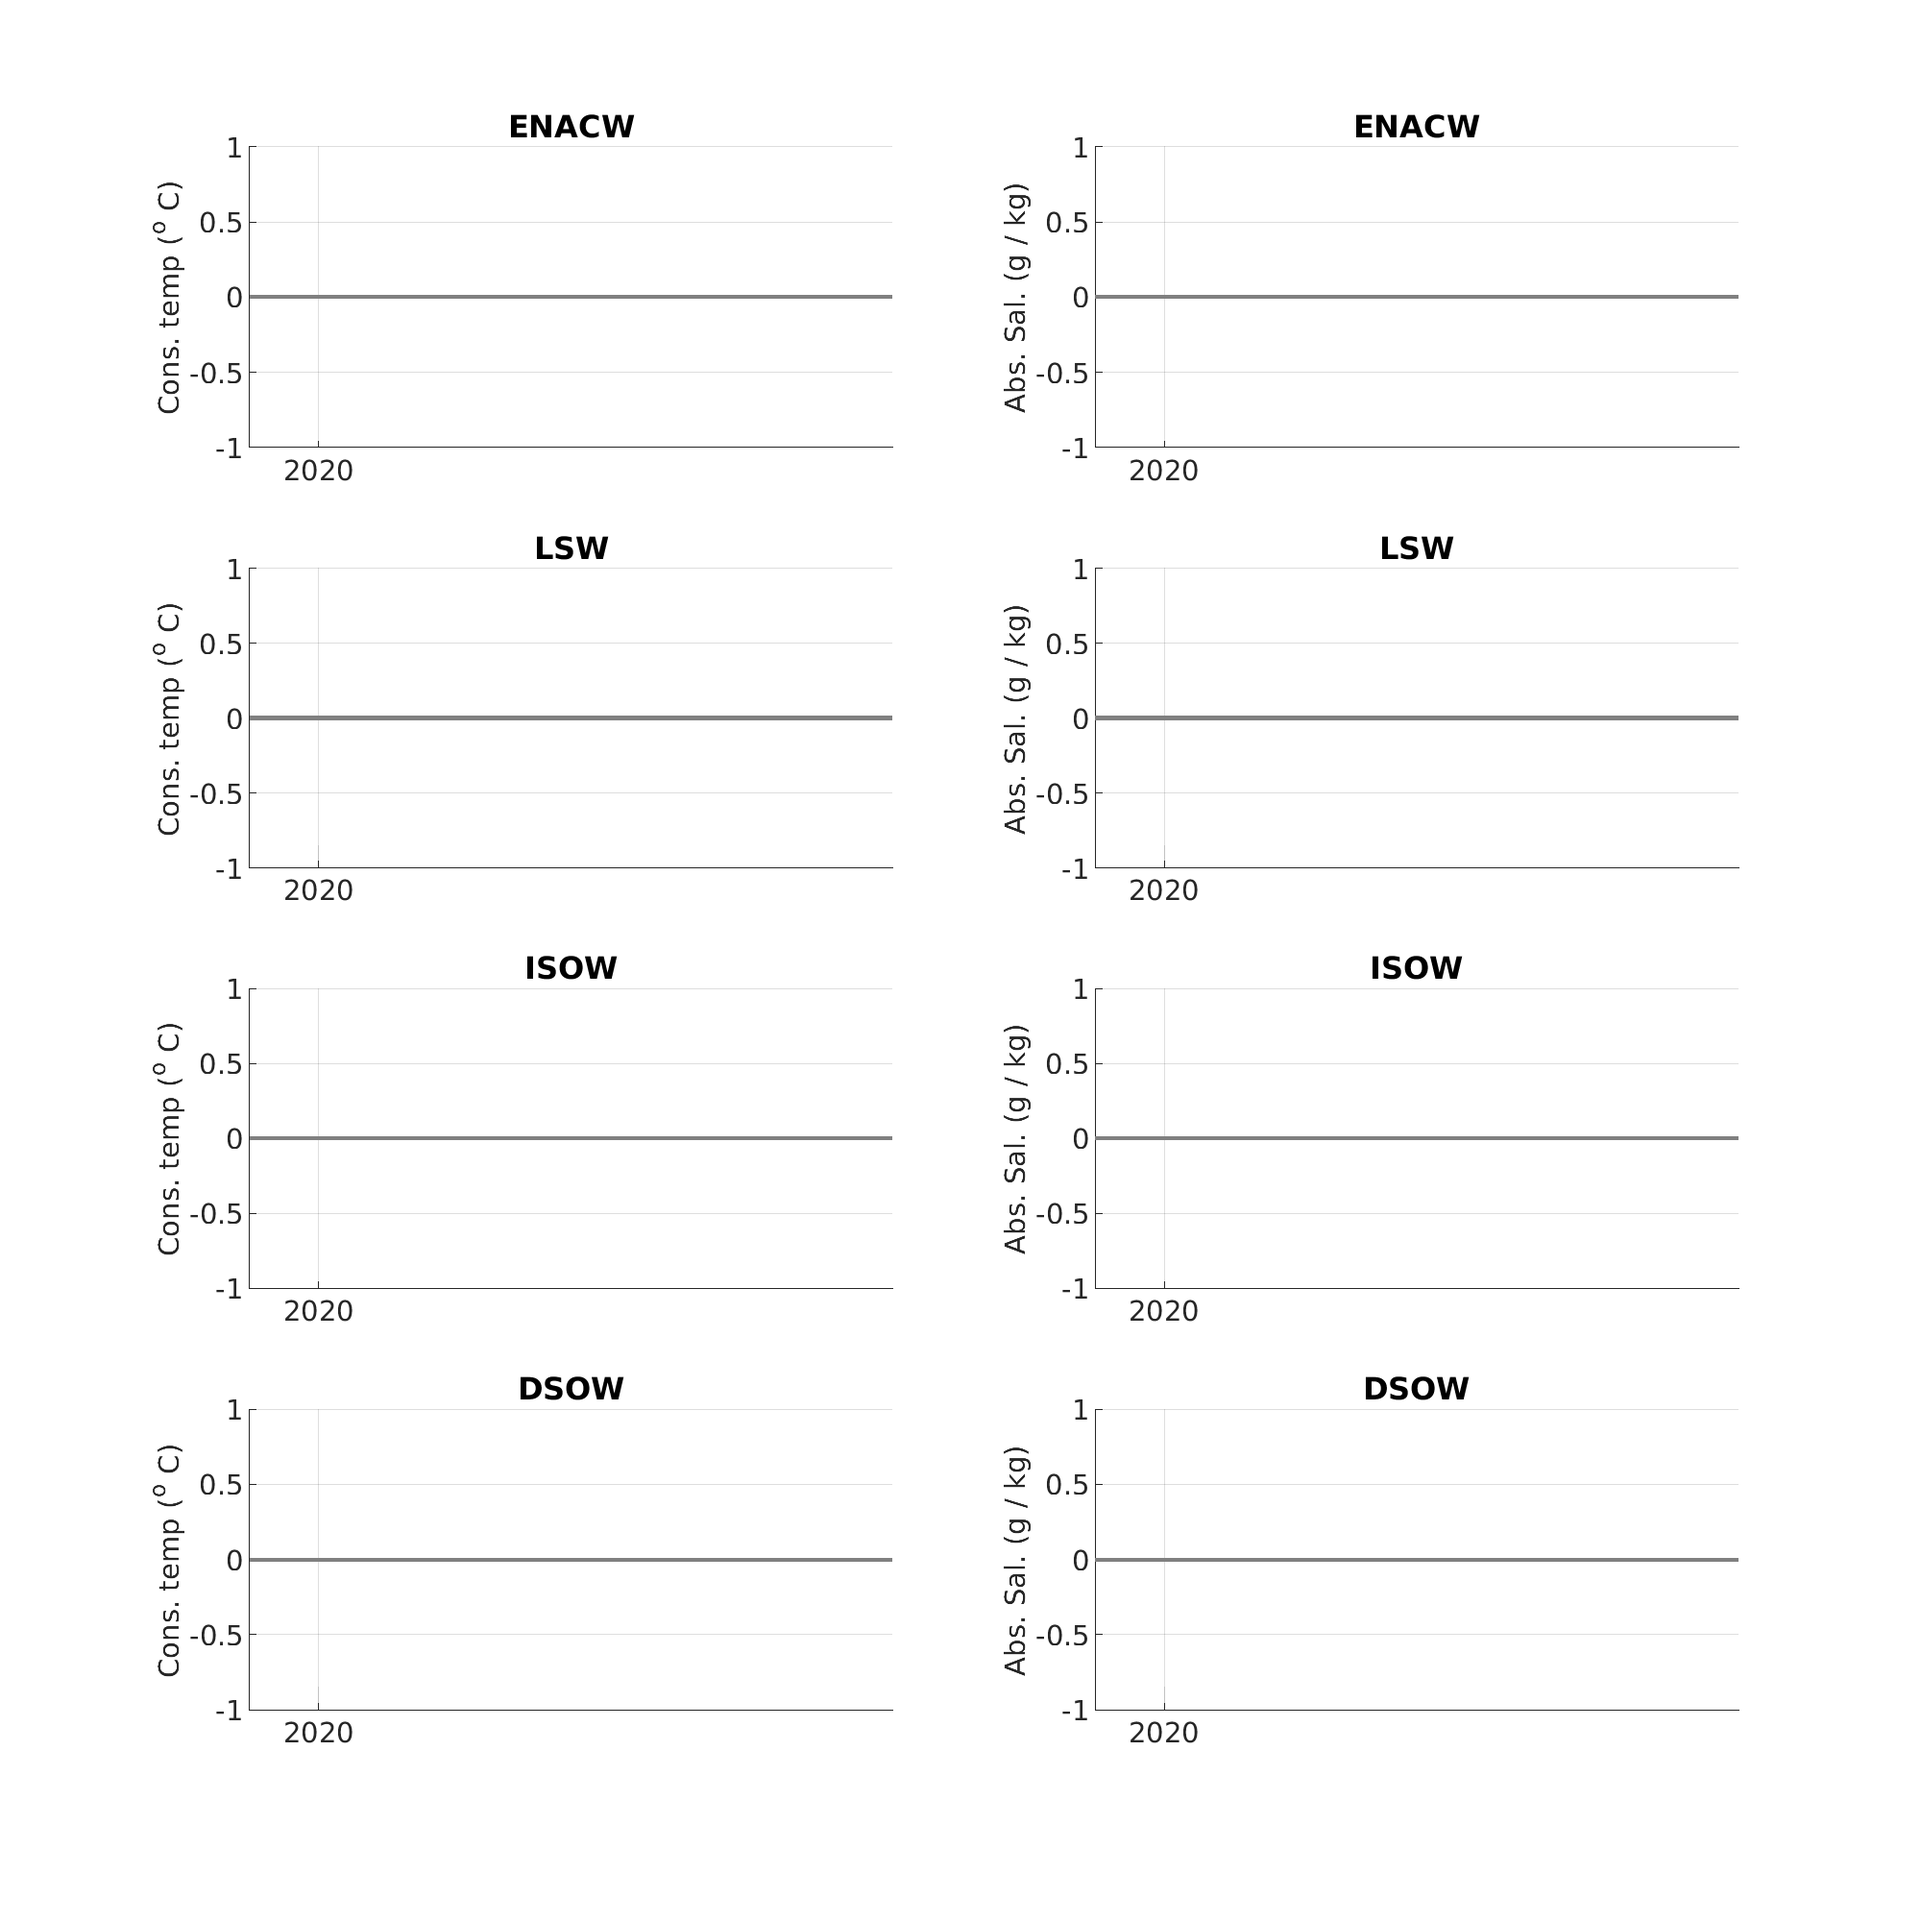
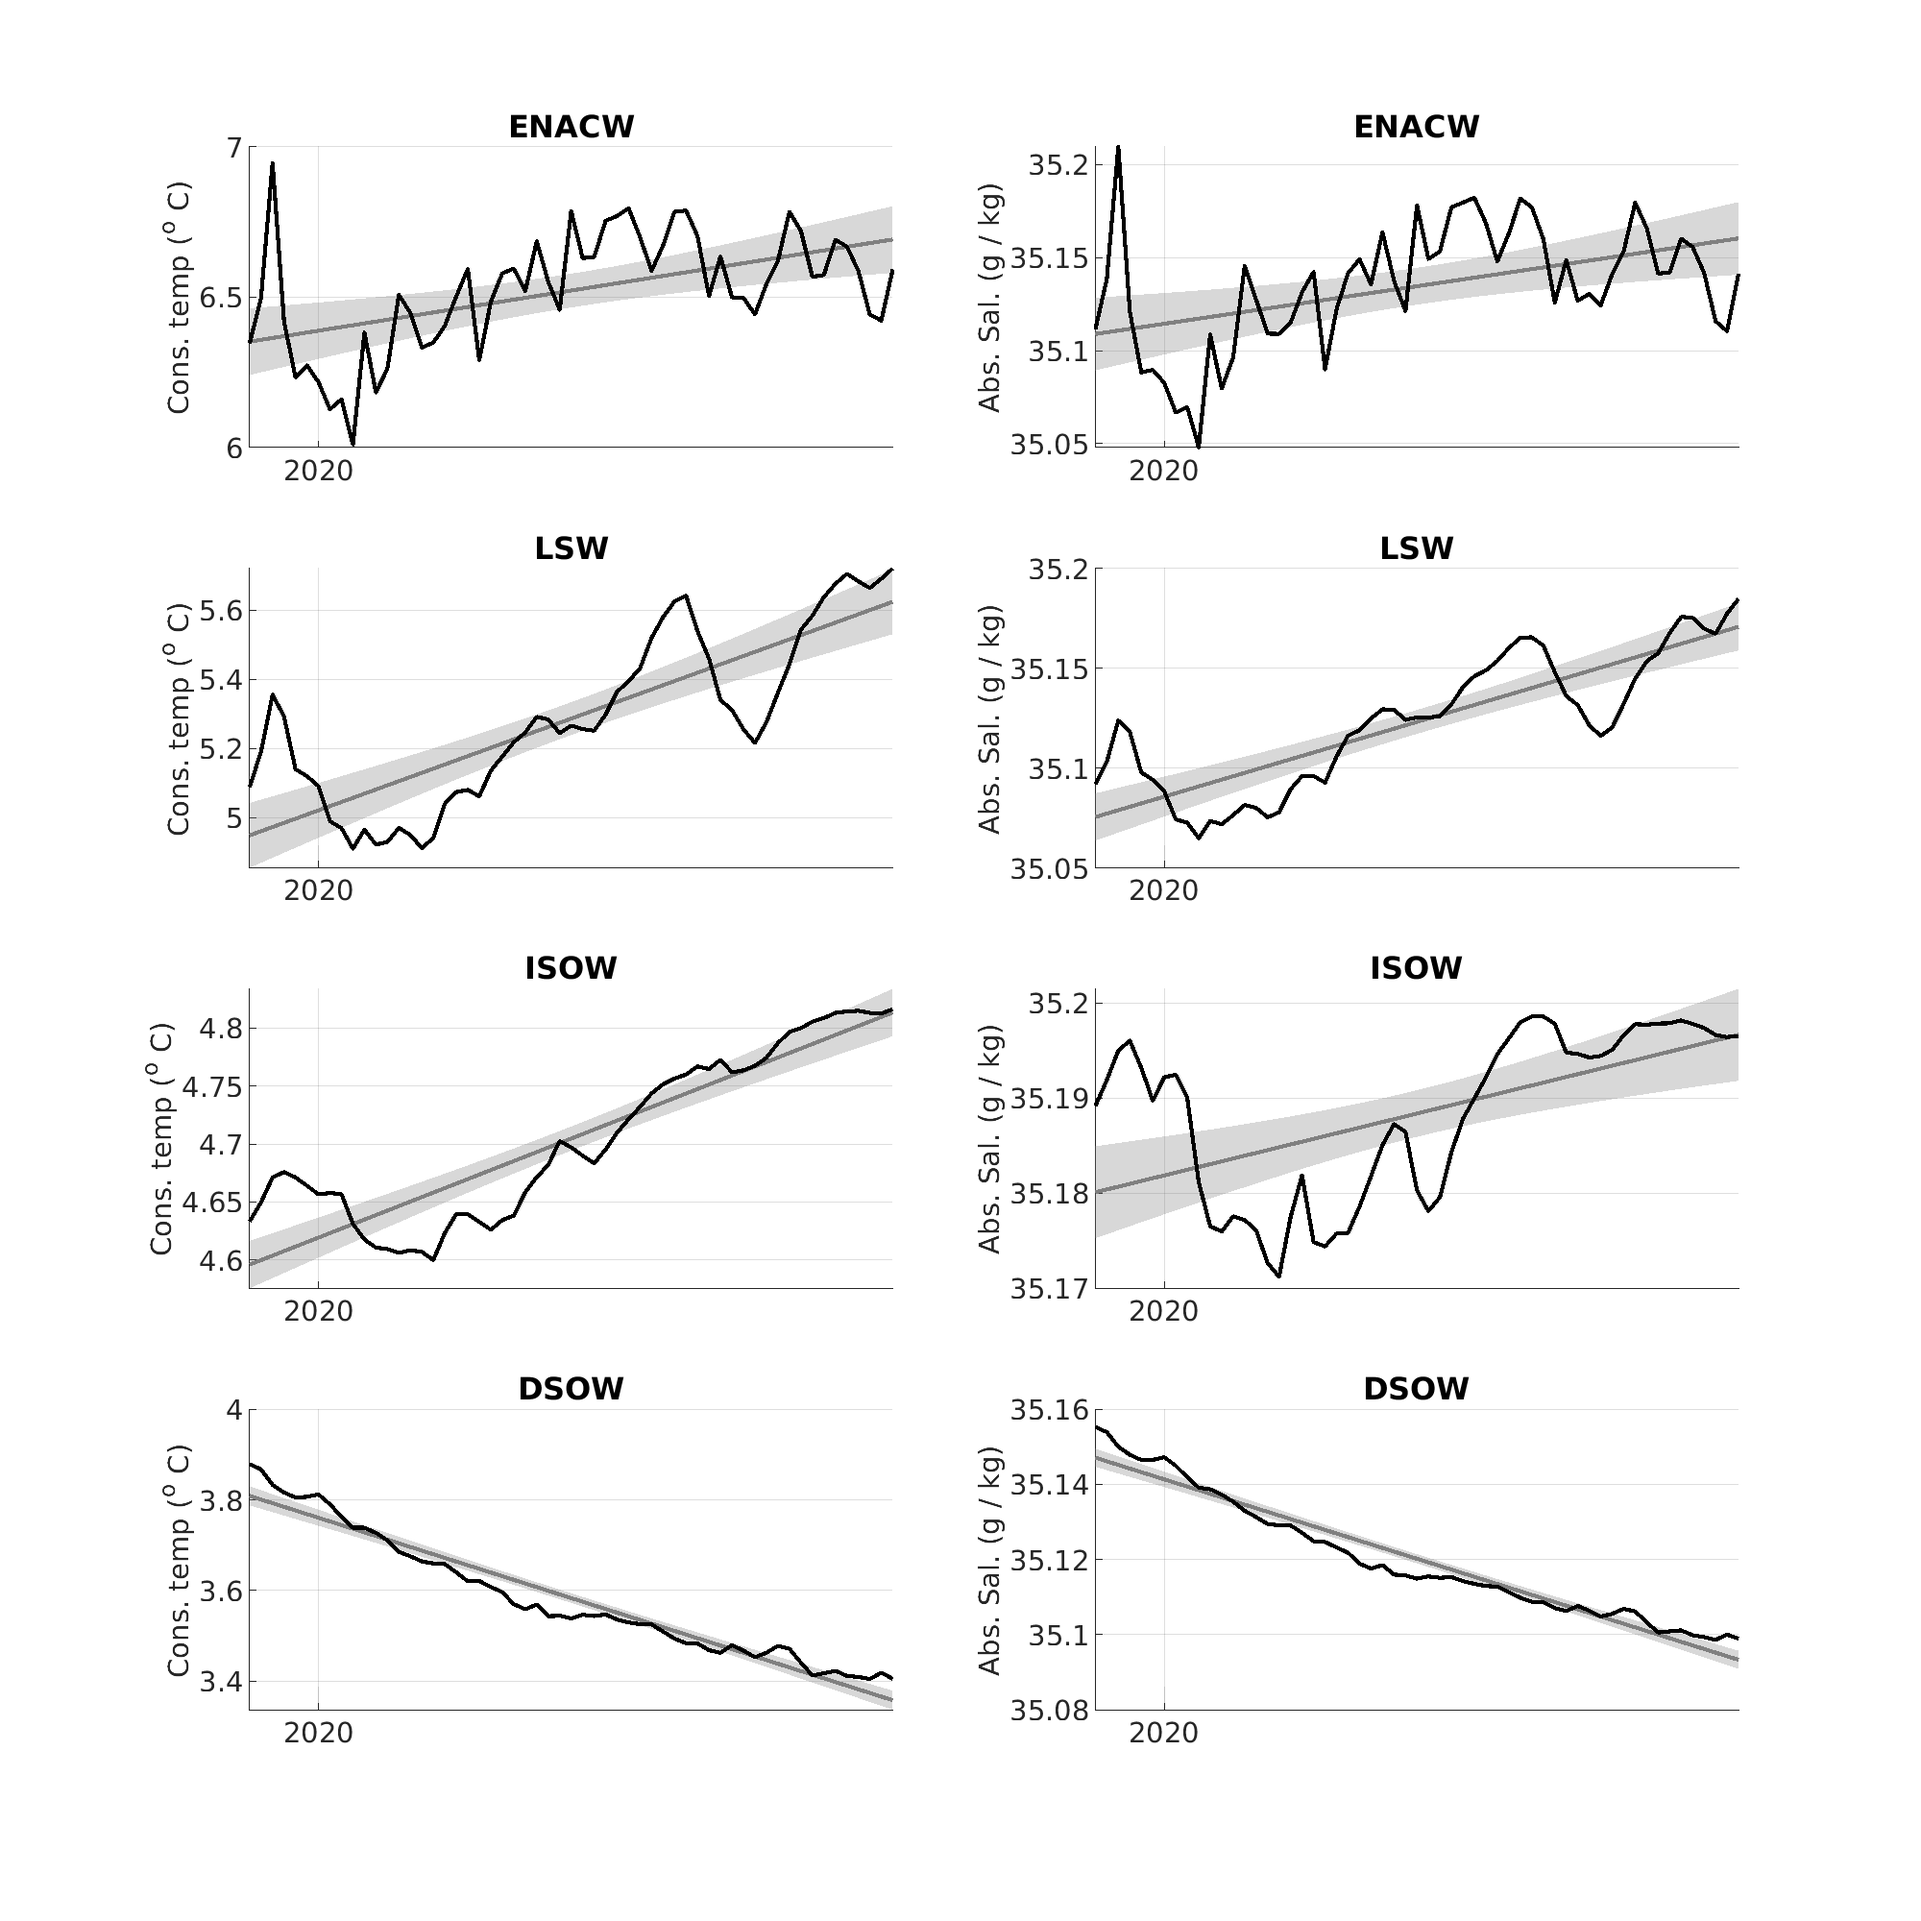
Edit script to test on FOCI

diff --git a/plot4_timeseries_FOCI/p4_plot_timeseries_worker.m b/plot4_timeseries_FOCI/p4_plot_timeseries_worker.m
@@ -19,6 +19,8 @@ x = ncread(filename,'x');
 y = ncread(filename,'y');
 lon2d = ncread(filename,'glamt');
 lat2d = ncread(filename,'gphit');
+tmask = ncread(filename,'tmask');
+tmask = repmat(tmask,1,1,1,12);
 dx2d = ncread(filename,'e1t');
 dy2d = ncread(filename,'e2t');
 bathyind = ncread(filename,'mbathy');
@@ -88,8 +90,8 @@ for yy = 1:length(filelist) % for each year netcdf
     time = time + basetime;
     
     % Set values inside bathy from 0 to nan.
-    T(T==0) = nan;
-    S(S==0) = nan;
+    T(tmask==0) = nan;
+    S(tmask==0) = nan;
     
     Yn_filename = [path,expe,'/gamma_n/',files_gn(yy).name];
     gamma_n = ncread(Yn_filename,'gamma_n');
@@ -250,34 +252,34 @@ for ww = 1:num_timeseries % for each water mass timeseries
     clear b bint r rint stats X y
     
     %% Regression analysis assuming 1D variable (dim = 1xN, Kristin code 161221)
-%     yfit1 = CT_lin_fit(ww,:); %this is the trend time series
-%     y = CT_annual(ww,:); %this is the data time series
-%     %t-value � find doef
-%     y_xc = xcorr(y-nanmean(y(:)),'coeff'); %autocorrelation
-%     y_xc = y_xc(ceil(length(y_xc)/2)+1:end); %only positive values
-%     deof_y = round(length(y)/find(y_xc<=1/exp(1),1,'first')); %deof are (number of obs)/(decorrelation or e-folding timescale)
-%     alphaup =  1-0.05/2; %1-0.05/2;
-%     t_crit_y = tinv(alphaup,deof_y); %find t_crit through matlab function
-%     
-%     yresid1 = y - yfit1;
-%     S2_e = (1/(deof_y-2)) * sum(yresid1.^2); % (eq. 1.33 on page 48 of internet doc)
-%     S_a = sqrt(S2_e / (sum((y-nanmean(y)).^2))); % (eq. 1.34 on page 48)
-%     % SJ NOTE: THE ABOVE COUPLE OF LINES SEEMS TO RESULT IN VALUES TOO
-%     % LARGE TO RESULT IN TEST PASSES. INVESTIGATE! (see https://o2.eas.gatech.edu/courses/EAS2655/week5.pdf)
-%     
-%     % significance test, t-test, 95% interval, H_0: R=0.0
-%     t1 = beta(2)/S_a; % (eq. 135 on page 48)
-%     
-%     % if 1: test is significant; 0: test is not significant
-%     if t_crit_y<abs(t1)
-%         CT_significant = 1;
-%     else
-%         CT_significant=0;
-%     end
-%     
-%     
-%     
-%     
+    yfit1 = CT_lin_fit(ww,:); %this is the trend time series
+    y = CT_annual(ww,:); %this is the data time series
+    %t-value � find doef
+    y_xc = xcorr(y-nanmean(y(:)),'coeff'); %autocorrelation
+    y_xc = y_xc(ceil(length(y_xc)/2)+1:end); %only positive values
+    deof_y = round(length(y)/find(y_xc<=1/exp(1),1,'first')); %deof are (number of obs)/(decorrelation or e-folding timescale)
+    alphaup =  1-0.05/2; %1-0.05/2;
+    t_crit_y = tinv(alphaup,deof_y); %find t_crit through matlab function
+    
+    yresid1 = y - yfit1;
+    S2_e = (1/(deof_y-2)) * sum(yresid1.^2); % (eq. 1.33 on page 48 of internet doc)
+    S_a = sqrt(S2_e / (sum((y-nanmean(y)).^2))); % (eq. 1.34 on page 48)
+    % SJ NOTE: THE ABOVE COUPLE OF LINES SEEMS TO RESULT IN VALUES TOO
+    % LARGE TO RESULT IN TEST PASSES. INVESTIGATE! (see https://o2.eas.gatech.edu/courses/EAS2655/week5.pdf)
+    
+    % significance test, t-test, 95% interval, H_0: R=0.0
+    t1 = beta(2)/S_a; % (eq. 135 on page 48)
+    
+    % if 1: test is significant; 0: test is not significant
+    if t_crit_y<abs(t1)
+        CT_significant = 1;
+    else
+        CT_significant=0;
+    end
+    
+    
+    
+    
     
     %% %%%%%%%%%%%%%% Linear regression: SA  %%%%%%%%%%%%%%%%%%%
     X = year'; tempones = ones(length(X),1); X = [X tempones]; % stats output requires a column of ones to be appended to X
@@ -297,37 +299,37 @@ for ww = 1:num_timeseries % for each water mass timeseries
     clear b bint r rint stats X y
     
 %     %% Regression analysis assuming 1D variable (dim = 1xN, Kristin code 161221)
-%     yfit1 = SA_lin_fit(ww,:); %this is the trend time series
-%     y = SA_annual(ww,:); %this is the data time series
-%     %t-value � find doef
-%     y_xc = xcorr(y-nanmean(y(:)),'coeff'); %autocorrelation
-%     y_xc = y_xc(ceil(length(y_xc)/2)+1:end); %only positive values
-%     deof_y = round(length(y)/find(y_xc<=1/exp(1),1,'first')); %deof are (number of obs)/(decorrelation or e-folding timescale)
-%     alphaup =  1-0.05/2; %1-0.05/2;
-%     t_crit_y = tinv(alphaup,deof_y); %find t_crit through matlab function
-%     
-%     yresid1 = y - yfit1;
-%     S2_e = (1/(deof_y-2)) * sum(yresid1.^2); % (eq. 1.33 on page 48 of internet doc)
-%     S_a = sqrt(S2_e / (sum((y-nanmean(y)).^2))); % (eq. 1.34 on page 48)
-%     % SJ NOTE: THE ABOVE COUPLE OF LINES SEEMS TO RESULT IN VALUES TOO
-%     % LARGE TO RESULT IN TEST PASSES. INVESTIGATE! (see https://o2.eas.gatech.edu/courses/EAS2655/week5.pdf)
-%     
-%     % significance test, t-test, 95% interval, H_0: R=0.0
-%     t1 = beta(2)/S_a; % (eq. 135 on page 48)
-%     
-%     % if 1: test is significant; 0: test is not significant
-%     if t_crit_y<abs(t1)
-%         SA_significant = 1;
-%     else
-%         SA_significant=0;
-%     end
-%     
+    yfit1 = SA_lin_fit(ww,:); %this is the trend time series
+    y = SA_annual(ww,:); %this is the data time series
+    %t-value � find doef
+    y_xc = xcorr(y-nanmean(y(:)),'coeff'); %autocorrelation
+    y_xc = y_xc(ceil(length(y_xc)/2)+1:end); %only positive values
+    deof_y = round(length(y)/find(y_xc<=1/exp(1),1,'first')); %deof are (number of obs)/(decorrelation or e-folding timescale)
+    alphaup =  1-0.05/2; %1-0.05/2;
+    t_crit_y = tinv(alphaup,deof_y); %find t_crit through matlab function
+    
+    yresid1 = y - yfit1;
+    S2_e = (1/(deof_y-2)) * sum(yresid1.^2); % (eq. 1.33 on page 48 of internet doc)
+    S_a = sqrt(S2_e / (sum((y-nanmean(y)).^2))); % (eq. 1.34 on page 48)
+    % SJ NOTE: THE ABOVE COUPLE OF LINES SEEMS TO RESULT IN VALUES TOO
+    % LARGE TO RESULT IN TEST PASSES. INVESTIGATE! (see https://o2.eas.gatech.edu/courses/EAS2655/week5.pdf)
+    
+    % significance test, t-test, 95% interval, H_0: R=0.0
+    t1 = beta(2)/S_a; % (eq. 135 on page 48)
+    
+    % if 1: test is significant; 0: test is not significant
+    if t_crit_y<abs(t1)
+        SA_significant = 1;
+    else
+        SA_significant=0;
+    end
+    
     
     
     %% Report stats to csv
     % [water mass number CT_gradient(deg/yr) CT_intercept CT_significant SA_gradient(gkg-1/yr) SA_intercept SA_significant]
-%     M(ww,:) = [ww CT_grad CT_intercept CT_significant SA_grad SA_intercept SA_significant];
-    M(ww,:) = [ww CT_grad CT_intercept SA_grad SA_intercept];
+    M(ww,:) = [ww CT_grad CT_intercept CT_significant SA_grad SA_intercept SA_significant];
+%     M(ww,:) = [ww CT_grad CT_intercept SA_grad SA_intercept];
     
 end
 
@@ -358,7 +360,7 @@ xyears = [1980 1990 2000 2010 2020];
 for nn = 1:num_timeseries
 
     
-    %% Tempreature timeseries
+    %% Temperature timeseries
     subplot(num_timeseries,2,plot_no); 
     hold on
     

diff --git a/plot4_timeseries_FOCI/Timeseries_plot_wrapper_script_RUNME.m b/plot4_timeseries_FOCI/Timeseries_plot_wrapper_script_RUNME.m
@@ -8,7 +8,7 @@ expe = {'FOCI1.14-II010','FOCI1.14-II011','FOCI1.14-JH027','FOCI1.19-JH037','FOC
 
 regions = [1:12]; % 12
 
-for ii= 4 %:length(expe)
+for ii= 1 %:length(expe)
     addpath([in_dir expe{ii}])
 for aa= 1 %:length(regions)
     region = regions(aa); % 2 % 7 % 8
